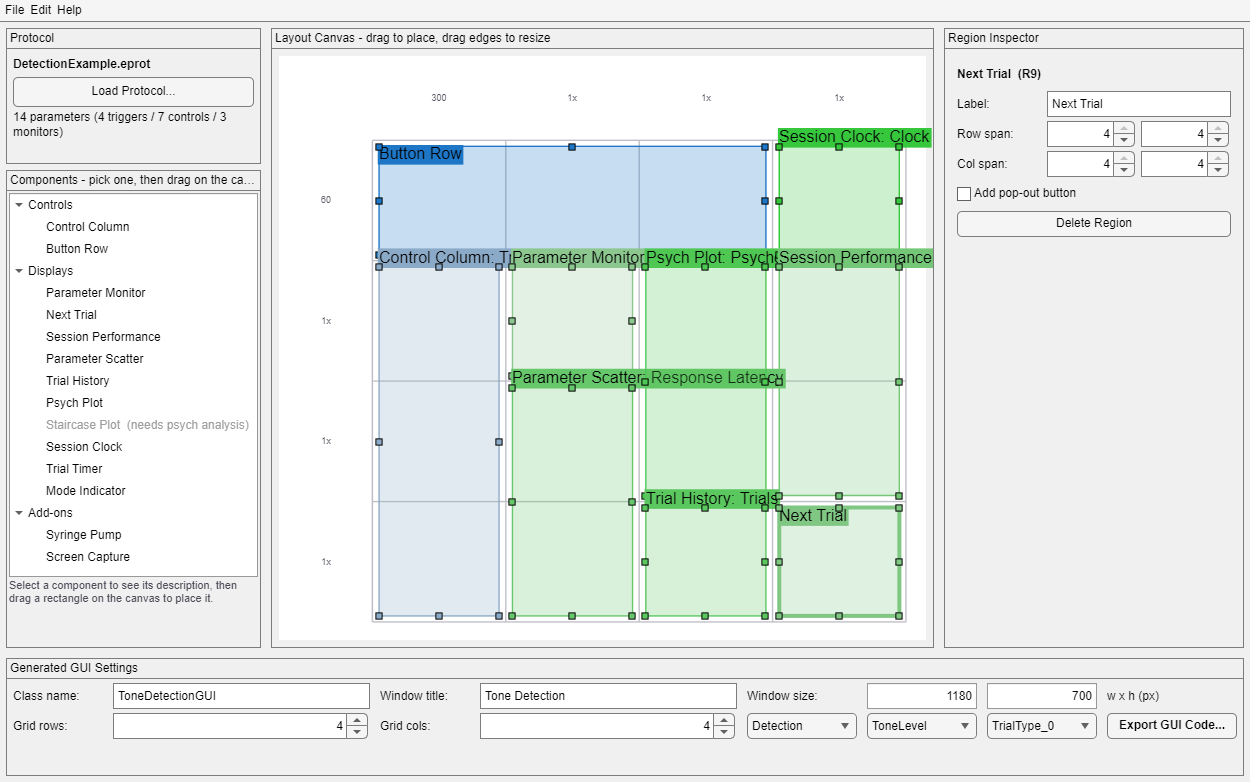
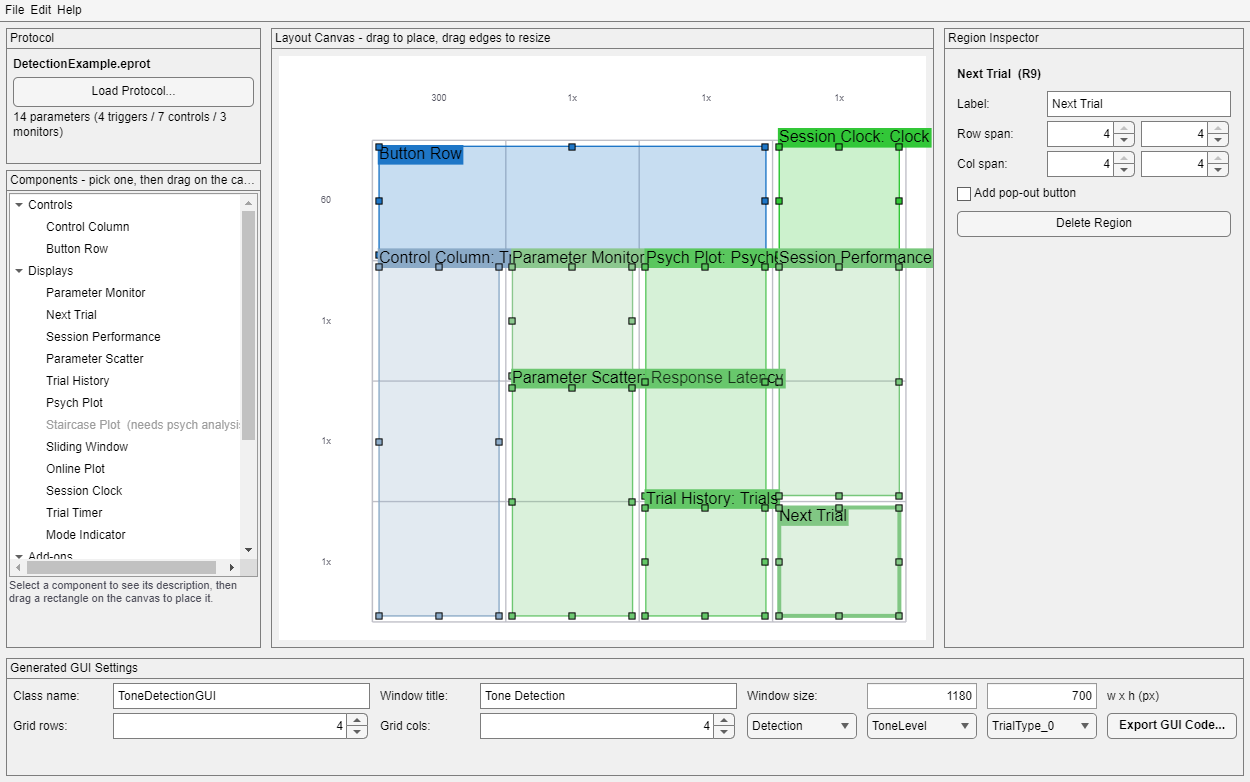
Add a SessionGate component shot and reshoot the builder palette
- generate_component_screenshots: new SessionGate shot. It captures TWO
  gates in one figure, armed and released, because the thing worth showing
  is that pressing the button does not remove it — it becomes the status
  line below.
- Regenerated documentation/gui/images/BehaviorBuilder.png, whose palette
  grew six entries (Sliding Window, Online Plot, Session Gate, Phase
  Selector, Status Bar, Filename Field). The wiki copy was regenerated in
  the same run.

Changed region(s): [[0.0, 0.5524, 0.2184, 0.7366], [0.1872, 0.2762, 0.2184, 0.5831]]

diff --git a/tmp/generate_component_screenshots.m b/tmp/generate_component_screenshots.m
@@ -57,6 +57,7 @@ shots = { ...
     'Performance',                  @shotPerformance; ...
     'SlidingWindowPerformancePlot', @shotSlidingWindow; ...
     'Staircase_Plot',               @shotStaircasePlot; ...
+    'SessionGate',                  @shotSessionGate; ...
     'PhaseSelector',                @shotPhaseSelector; ...
     'StaircaseTraining',            @shotStaircaseTraining; ...
     'SyringePump',                  @shotSyringePump; ...
@@ -328,6 +329,22 @@ end
 %% ------------------------------------------------------------------------
 %  Session control
 % -------------------------------------------------------------------------
+function fig = shotSessionGate(~)
+% Both states in one shot: the gate as it opens, and the status line it
+% becomes. A picture of the armed button alone would not show the thing
+% that is easy to miss -- that the button never goes away.
+fig = shotFigure([300 130]);
+g = uigridlayout(fig, [2 1]);
+g.RowHeight = {36, 36};
+g.Padding = [12 12 12 12];
+
+gui.SessionGate(g);                       % armed, as the session opens
+
+retired = gui.SessionGate(g);             % the same button after the press
+retired.release();
+end
+
+
 function fig = shotPhaseSelector(S)
 % A throwaway phase folder, so the dropdown has something to show.
 phaseDir = fullfile(tempdir, 'epsych_wiki_phases');
